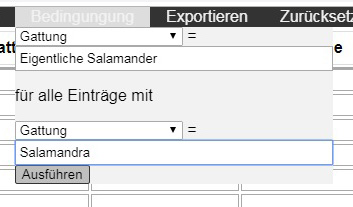
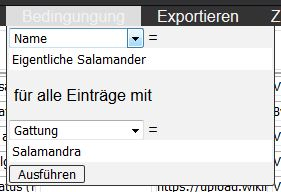
Add files via upload

Changed region(s): [[0.0, 0.0, 1.0, 1.0]]

diff --git a/Help.html b/Help.html
@@ -48,7 +48,6 @@
 						<li class="toclistitem"><a class = "contentslink" href="#HBioQuisJson" title="Was ist in der BioQuis_Liste.json Datei gespeichert?">BioQuis_Liste.json</a></li>
 						<li class="toclistitem"><a class = "contentslink" href="#HSortieren" title="Wie kann ich die Liste anders sortieren?">Liste sortieren</a></li>
 						<li class="toclistitem"><a class = "contentslink" href="#HVeraendern" title="Wie kann ich Einträge in der Liste verändern?">Einträge bearbeiten</a></li>
-						<li class="toclistitem"><a class = "contentslink" href="#HFormatieren" title="Wie kann ich den Text der Bildanzeige formatieren(kursiv, fett, unterstrichen, Zeilenumbruch usw)?">Text formatieren</a></li>
 						<li class="toclistitem"><a class = "contentslink" href="#HID" title="Was ist das ID# Feld?">ID# Feld</a></li>
 						<li class="toclistitem"><a class = "contentslink" href="#HBildadresse" title="Was ist das Grafik-/Bildadresse Feld?">Grafik-/Bildadresse Feld</a></li>
 						<li class="toclistitem"><a class = "contentslink" href="#HName" title="Was ist das Name und Gruppe Feld?">Name und Gruppe Feld</a></li>
@@ -99,16 +98,16 @@
 			<p class="HParagraph">Die Nummer rechts unten in der <a href="index.html" target="_blank">Bildanzeige</a> ist die <a href="#HID">ID#</a> dieses Eintrages in der <a href="Verwalten.html" target="_blank">Liste</a>. Dies sollte das auffinden eines in der Bilderanzeige als fehlerhaft erkannten Eintrages in der Liste erleichtern.</p>
 			
 			<h4 id="HDarwin">Warum wird mir Charles Darwin in der Bildanzeige angezeigt?</h4>
-			<p class="HParagraph">Charles Darwin wird in der <a href="index.html" target="_blank">Bildanzeige</a> angezeigt wenn für einen Eintrag in der <a href="Verwalten.html" target="_blank">Liste</a> keine Grafikadresse/Bildadresse vorhanden ist. Um dieses Problem zu beheben für den entsprechenden Eintrag in der Liste eine Grafikadresse/Bildadresse im <a href="#HBildadresse">Feld Grafik-/Bildadresse</a> angeben oder den <a href="HLoeschen">Eintrag löschen</a>. Die <a href="HID">ID#</a> des zu bearbeitenden Eintrages ist im Bilduntertext und <a href="#HNummer">rechts unten in der Bildanzeige</a> angegeben.</p>
+			<p class="HParagraph">Charles Darwin wird in der <a href="index.html" target="_blank">Bildanzeige</a> angezeigt wenn für einen Eintrag in der <a href="Verwalten.html" target="_blank">Liste</a> keine Grafikadresse/Bildadresse vorhanden ist. Um dieses Problem zu beheben für den entsprechenden Eintrag in der Liste eine Grafikadresse/Bildadresse im <a href="#HBildadresse">Feld Grafik-/Bildadresse</a> angeben oder den <a href="#HLoeschen">Eintrag löschen</a>. Die <a href="#HID">ID#</a> des zu bearbeitenden Eintrages ist im Bilduntertext und <a href="#HNummer">rechts unten in der Bildanzeige</a> angegeben.</p>
 			
 			<h4 id="HLinne">Warum wird mir Carl von Linné in der Bildanzeige angezeigt?</h4>
 			<p class="HParagraph">Carl von Linné wird in der <a href="index.html" target="_blank">Bildanzeige</a> angezeigt wenn für einen Eintrag in der <a href="Verwalten.html" target="_blank">Liste</a> kein Bild geladen werden kann. Dies kann der Fall sein wenn das Bild unter der angegebenen Grafikadresse/Bildadresse nicht mehr existiert, die Grafikadresse/Bildadresse fehlerhaft ist oder die Internetverbindung unterbrochen ist. Um die beiden erstgenannten Probleme zu beheben für den entsprechenden Eintrag in der Liste eine gültige Grafikadresse/Bildadresse im <a href="#HBildadresse">Feld Grafik-/Bildadresse</a> angeben oder den <a href="#HLoeschen">Eintrag löschen</a>. Die <a href="#HID">ID#</a> des zu bearbeitenden Eintrages ist im Bilduntertext und <a href="#HNummer">rechts unten in der Bildanzeige</a> angegeben.</p>
 			
 			<h4 id="HfalschesBild">Wieso wird plötzlich ein anderes Bild für einen Eintrag angezeigt?</h4>
-			<p class="HParagraph">Wenn der Betreiber der Seite der im <a href="#HBildadresse">Feld Grafik-/Bildadresse</a> angegebenen Grafikadresse/Bildadresse ein anderes Bild unter dieser Grafikadresse/Bildadresse speichert wird dieses in der <a href="index.html" target="_blank">Bildanzeige</a> angezeigt. Um dieses Problem zu beheben für den entsprechenden Eintrag in der Liste die neue Grafikadresse/Bildadresse des Bildes im <a href="#HBildadresse">Feld Grafik-/Bildadresse</a> angeben wenn diese bekannt ist/existiert oder den <a href="HLoeschen">Eintrag löschen</a>. Die <a href="HID">ID#</a> des zu bearbeitenden Eintrages ist <a href="#HNummer">rechts unten in der Bildanzeige</a> angegeben.</p>
+			<p class="HParagraph">Wenn der Betreiber der Seite der im <a href="#HBildadresse">Feld Grafik-/Bildadresse</a> angegebenen Grafikadresse/Bildadresse ein anderes Bild unter dieser Grafikadresse/Bildadresse speichert wird dieses in der <a href="index.html" target="_blank">Bildanzeige</a> angezeigt. Um dieses Problem zu beheben für den entsprechenden Eintrag in der Liste die neue Grafikadresse/Bildadresse des Bildes im <a href="#HBildadresse">Feld Grafik-/Bildadresse</a> angeben wenn diese bekannt ist/existiert oder den <a href="#HLoeschen">Eintrag löschen</a>. Die <a href="#HID">ID#</a> des zu bearbeitenden Eintrages ist <a href="#HNummer">rechts unten in der Bildanzeige</a> angegeben.</p>
 			
 			<h4 id="HListe">Wie funktioniert die Liste?</h4>
-			<p class="HParagraph">Jede Zeile der <a href="Verwalten.html" target="_blank">Liste</a> ist ein Eintrag und enspricht einem Bild der <a href="index.html" target="_blank">Bildanzeige</a>. Die Liste kann hier nach belieben individuell verändert werden. Es ist nicht notwendig/möglich eigene Bilder hochzuladen, stattdessen können theoretisch alle im Internet verfügbaren Bilder über die Grafikadresse/Bildadresse verwendet werden. Die Grafikadresse/Bildadresse ist ein Link direkt zum Bild und wird im <a href="#HBildadresse">Feld Grafik-/Bildadresse</a> eingetragen. Die Grafikadresse/Bildadresse eines Bildes erhält man indem man das Bild im Internetbrowser öffnet und mit Rechtsklick -> Grafikadresse kopieren (Firefox)/Bildadresse kopieren (Chrome und Opera) die Grafikadresse/Bildadresse kopiert und in der Liste bei entsprechendem Eintrag im Feld Grafik-/Bildadresse einfügt. Zur ordnungsgemäßen Funktion der Seite muss dieses Feld ausgefüllt werden, da sonst kein Bild für diesen Eintrag in der angezeigt werden kann. Alle anderen Felder sind optional und können leer gelassen werden. Diese werden als weitere Information angezeigt sobald in der Bildanzeige auf das Bild geklickt wird. Es ist allerdings sinnvoll zumindest eins dieser Felder auszufüllen um dem <a href="#HBildanzeige">Prinzip der Bildanzeige</a> folgen zu können.</p>
+			<p class="HParagraph">Jede Zeile der <a href="Verwalten.html" target="_blank">Liste</a> ist ein Eintrag und enspricht einem Bild der <a href="index.html" target="_blank">Bildanzeige</a>. Die Liste kann hier nach belieben individuell verändert werden. Es ist nicht notwendig/möglich eigene Bilder hochzuladen, stattdessen können theoretisch alle im Internet verfügbaren Bilder über die Grafikadresse/Bildadresse verwendet werden. Die Grafikadresse/Bildadresse ist ein Link direkt zum Bild und wird im <a href="#HBildadresse">Feld Grafik-/Bildadresse</a> eingetragen. Die Grafikadresse/Bildadresse eines Bildes erhält man indem man das Bild im Internetbrowser öffnet und mit Rechtsklick &#8674 Grafikadresse kopieren (Firefox)/Bildadresse kopieren (Chrome und Opera) die Grafikadresse/Bildadresse kopiert und in der Liste bei entsprechendem Eintrag im Feld Grafik-/Bildadresse einfügt. Zur ordnungsgemäßen Funktion der Seite muss dieses Feld ausgefüllt werden, da sonst kein Bild für diesen Eintrag in der Bildanzeige angezeigt werden kann. Alle anderen Felder sind optional und können leer gelassen werden. Diese werden als weitere Information angezeigt sobald in der Bildanzeige auf das Bild geklickt wird. Es ist allerdings sinnvoll zumindest eins dieser Felder auszufüllen um dem <a href="#HBildanzeige">Prinzip der Bildanzeige</a> folgen zu können.</p>
 			<p class="HParagraph">Alle Veränderungen betreffen nur das Gerät auf dem die Veränderungen vorgenommen wurden und werden beim verlassen der Seite automatisch gespeichert. ACHTUNG: Wird der lokale Speicher des Internetbrowsers bereinigt oder eine andere Liste geöffnet, so gehen auch alle individuellen Veränderungen verloren. Auch ein Absturz des Internetbrowsers kann zu Datenverlust führen. Um einen derartigen Verlust einer individuelle Liste zu verhindern oder diese anderen Personen zur Verfügung zu stellen oder diese auf einem anderen Gerät zu verwenden, so muss man die <a href="#HExportieren">Liste exportieren</a> und kann die dadurch erstellte <a href="#HJson">.json Datei</a> nun über <a href="#HEigeneListe">"Eigene Liste"</a> oder <a href="#HListenEinen">"Liste hinzufügen"</a> im Menü am oberen Rand der Liste öffnen.</p>
 			
 			<h4 id="HNeueListe">Wie kann ich alle Einträge der Liste löschen?</h4>
@@ -168,55 +167,6 @@
 			
 			<h4 id="HVeraendern">Wie kann ich Einträge in der Liste verändern?</h4>
 			<p class="HParagraph">Um Einträge in der <a href="Verwalten.html" target="_blank">Liste</a> zu verändern in das zu verändernde Feld klicken und die Änderung vornehmen.</p>	
-			
-			<h4 id="HFormatieren">Wie kann ich den Text der Bildanzeige formatieren (kursiv, fett, unterstrichen, Zeilenumbruch usw)?</h4>
-			<p class="HParagraph">Der Text mit weiteren Informationen, welcher angezeigt wird nachdem in der <a href="index.html" target="_blank">Bildanzeige</a> auf das Bild geklickt wurde, kann mit allen üblichen HTML-Tags verändert werden. Dazu sind die entsprechenden Tags in den Feldern der <a href="Verwalten.html" target="_blank">Liste</a> einzutragen. Um zum Beispiel die Klasse "Amphibia (Amphibien)" im Informationstext kursiv anzuzeigen in der Liste stattdessen "<b>&lt;i&gt;</b>Amphibia (Amphibien)<b>&lt;/i&gt;</b>" eintragen. Das Ergebnis im Informationstext sieht dann so "<i>Amphibia (Amphibien)</i>" aus. Die Tags können an beliebiger Stelle im Text eingetragen werden, so ergibt "<b>&lt;i&gt;</b>Amphibia<b>&lt;/i&gt;</b> (Amphibien)" "<i>Amphibia</i> (Amphibien)" oder "Amphi<b>&lt;i&gt;</b>bia (Amp<b>&lt;/i&gt;</b>hibien)" "Amphi<i>bia (Amp</i>hibien)" und so weiter. In der folgenden Tabelle sind einige HTML-Tags zum einfachen formatieren von Text angegeben.</p>
-			<table class="HTable">
-				<thead>
-					<tr>
-						<th>HTML-Tags</th>
-						<th>Erklärung</th>
-					</tr>
-				</thead>
-				<tbody>
-					<tr>
-						<td class="fc">&lt;b&gt;&lt;/b&gt;</td>
-						<td><b>bold</b> bzw fetter Text</td>
-					</tr>
-					<tr>
-						<td class="fc">&lt;i&gt;&lt;/i&gt;</td>
-						<td><i>italic</i> bzw kursiver Text</td>
-					</tr>
-					<tr>
-						<td class="fc">&lt;small&gt;&lt;/small&gt;</td>
-						<td><small>kleinerer</small> Text</td>
-					</tr>
-					<tr>
-						<td class="fc">&lt;mark&gt;&lt;/mark&gt;</td>
-						<td><mark>markierter</mark> Text</td>
-					</tr>
-					<tr>
-						<td class="fc">&lt;del&gt;&lt;/del&gt;</td>
-						<td><del>deleted</del> oder durchgestrichener Text</td>
-					</tr>
-					<tr>
-						<td class="fc">&lt;ins&gt;&lt;/ins&gt;</td>
-						<td><ins>inserted</ins> oder unterstrichener Text</td>
-					</tr>
-					<tr>
-						<td class="fc">&lt;sub&gt;&lt;/sub&gt;</td>
-						<td><sub>subscripted</sub> oder tiefgestellter Text</td>
-					</tr>
-					<tr>
-						<td class="fc">&lt;sup&gt;&lt;/sup&gt;</td>
-						<td><sup>superscripted</sup> oder hochgestellter Text</td>
-					</tr>
-					<tr>
-						<td class="fc">&lt;br&gt;</td>
-						<td>Zeilenumbruch an dieser<br>Stelle des Textes</td>
-					</tr>
-				</tbody>
-			</table>
 						
 			<h4 id="HID">Was ist das ID# Feld?</h4>
 			<p class="HParagraph">Der Wert des ID# Feldes ist eine automatisch generierte, in der <a href="Verwalten.html" target="_blank">Liste</a> einmalige Nummer um Einträge eindeutig idendifizieren zu können. Der Wert dieses Feldes kann nicht verändert werden um die Einmaligkeit der Nummer sicherzustellen.</p>	
@@ -228,7 +178,7 @@
 			<p class="HParagraph">Diese Felder können bei Bedarf ausgefüllt werden. Diesen Spalten in der <a href="Verwalten.html" target="_blank">Liste</a> ermöglichen das Eintragen von Einteilungen welche durch die Felder der <a href="#HSystematik">Biologischen Systematik</a> nicht abgedeckt sind. Es kann hier zum Beispiel der deutschen Namen und eine Gruppe von nur morphologisch ähnlichen Tieren (z.B. die Fische) eingetragen werden</p>
 			
 			<h4 id="HLink">Was ist das Link Feld</h4>
-			<p class="HParagraph">Dieses Feld kann bei Bedarf ausgefüllt werden. Diese Spalte in der <a href="Verwalten.html" target="_blank">Liste</a> ermöglicht die Angabe eines Links zu einer beliebigen Internetseite mit weiteren Informationen, zum Beispiel zum Wikipedia Artikel des Lebewesens. Hier bitte nur eine gültige Webadresse angeben.</p>	
+			<p class="HParagraph">Dieses Feld kann bei Bedarf ausgefüllt werden. Diese Spalte in der <a href="Verwalten.html" target="_blank">Liste</a> ermöglicht die Angabe eines oder mehrerer Links zu einer beliebigen Internetseite mit weiteren Informationen, zum Beispiel zum Wikipedia Artikel des Lebewesens. Hier bitte nur eine gültige Webadresse angeben. Mehrere Links müssen zur korrekten Anzeige durch "[Leerzeichen]&[Leerzeichen]" getrennt werden, zum Beispiel: "https://de.wikipedia.org/wiki/Feuersalamander & https://de.wikipedia.org/wiki/Salamander".</p>	
 			
 			<h4 id="HSystematik">Was ist die Unterart, Art, Gattung, Unterserei, Serie, Untersektion, Sektion, Untergattung, Subtribus, Unterfamilie, Familie, Überfamilie, Teilordung, Unterordnung, Ordnung, Überordnung, Teilklasse, Unterklasse, Klasse, Reihe, Überklasse, Unterstamm, Stamm, Überstamm, Stammgruppe, Abteilung, Unterreich, Reich und Domäne?</h4>
 			<p class="HParagraph">Diese Felder können bei Bedarf ausgefüllt werden. Diesen Spalten in der <a href="Verwalten.html" target="_blank">Liste</a> ermöglichen die Einteilung in die Systematik der Lebewesen. Es ist das in der Biologie gängige Konzept zur Einteilung, Benennung und Identifikation der Lebewesen. <a href="https://de.wikipedia.org/wiki/Systematik_(Biologie)">Mehr zur Systematik auf Wikipedia</a>.</p>	
@@ -237,7 +187,7 @@
 			<p class="HParagraph">Um einen Eintrag aus der <a href="Verwalten.html" target="_blank">Liste</a> zu löschen am Anfang der entsprechenden Zeile links neben dem <a href="#HID">ID# Feld</a> den <button type="button" class="dabuttons Hdabuttons delbutton" title="Zeile löschen Button"></button> Button klicken.</p>	
 			
 			<h4 id="HHinzufuegen">Wie kann ich einen neuen Eintrag zur Liste hinzufügen?</h4>
-			<p class="HParagraph">Um einen Eintrag zur <a href="Verwalten.html" target="_blank">Liste</a> hinzuzufügen am Anfang der Zeile unter welcher eine neue Zeile hinzugefügt werden sollte links neben dem <a href="#HID">ID# Feld</a> den <button type="button" class="dabuttons Hdabuttons addbutton" title="Neue Zeile unter dieser Zeile hinzufügen Button"></button> Button klicken. In die neue Zeile werden automatisch alle Felder mit Ausnahme des ID# Feldes und des <a href="HBildadresse">Grafik-/Bildadresse Feldes</a> von der Zeile darüber kopiert.</p>	
+			<p class="HParagraph">Um einen Eintrag zur <a href="Verwalten.html" target="_blank">Liste</a> hinzuzufügen am Anfang der Zeile unter welcher eine neue Zeile hinzugefügt werden sollte links neben dem <a href="#HID">ID# Feld</a> den <button type="button" class="dabuttons Hdabuttons addbutton" title="Neue Zeile unter dieser Zeile hinzufügen Button"></button> Button klicken. In die neue Zeile werden automatisch alle Felder mit Ausnahme des ID# Feldes und des <a href="#HBildadresse">Grafik-/Bildadresse Feldes</a> von der Zeile darüber kopiert.</p>	
 			
 			<h4 id="HSpeichern">Wie speichere ich meine Veränderungen an der Liste?</h4>
 			<p class="HParagraph">Generell werden alle Veränderungen automatisch gespeichert und sind auch nach dem Neustart des Internetbrowsers und bei einem späteren Aufruf der Seite wieder verfügbar. ACHTUNG: Wird der lokale Speicher des Internetbrowsers bereinigt (z.B. im privaten Modus oder nach manueller Bereinigung) oder eine andere Liste geöffnet, so gehen auch alle individuellen Veränderungen verloren. Auch ein Absturz des Internetbrowsers kann zu Datenverlust führen. Um einen derartigen Verlust einer individuelle Liste zu verhindern oder diese anderen Personen zur Verfügung zu stellen oder diese auf einem anderen Gerät zu verwenden, so muss man die <a href="#HExportieren">Liste exportieren</a> und kann die dadurch erstellte <a href="#HJson">.json Datei</a> nun über <a href="#HEigeneListe">"Eigene Liste"</a> oder <a href="#HListenEinen">"Liste hinzufügen"</a> im Menü am oberen Rand der Liste öffnen.</p>	

diff --git a/Verwalten.html b/Verwalten.html
@@ -118,66 +118,14 @@
 			<div class="popup-content">
 				<span onclick="document.getElementById('firstInfoIndex').style.display='none'" class="close" title="Informationsanzeige schließen">&times;</span>
 				
-				<h2>Willkommen auf BioQuis</h2>
+				<h2>Willkommen in der BioQuis-Liste</h2>
 				
-				<p id="Goethe">Wie schon Goethe niederschrieb: "Man sieht nur, was man weiß". Ganz in diesem Sinne sollte BioQuis helfen die Lebewesen unserer Umwelt kennen zu lernen und dadurch ermöglichen die überweltigende Vielfalt unseres nächsten Umfeldes wahrzunehmen.</p>
-				
-				<p>Die Folgenden und weitere Informationen über diese Website können jederzeit durch klick auf "<a href="help.html">Hilfe</a>" im Menü am oberen Rand der Website abgerufen werden.
-				
-				<h4 id="HListe">Wie funktioniert diese Seite?</h4>
-				<p class="HParagraph">Jede Zeile dieser Liste ist ein Eintrag und enspricht einem Bild der <a href="index.html" target="_blank">Bildanzeige</a>. Die Liste kann hier nach belieben individuell verändert werden. Es ist nicht notwendig/möglich eigene Bilder hochzuladen, stattdessen können theoretisch alle im Internet verfügbaren Bilder über die Grafikadresse/Bildadresse verwendet werden. Die Grafikadresse/Bildadresse ist ein Link direkt zum Bild und wird im <a href="Help.html#HBildadresse">Feld Grafik-/Bildadresse</a> eingetragen. Die Grafikadresse/Bildadresse eines Bildes erhält man indem man das Bild im Internetbrowser öffnet und mit Rechtsklick -> Grafikadresse kopieren (Firefox)/Bildadresse kopieren (Chrome und Opera) die Grafikadresse/Bildadresse kopiert und in der Liste bei entsprechendem Eintrag im Feld Grafik-/Bildadresse einfügt. Zur ordnungsgemäßen Funktion der Seite muss dieses Feld ausgefüllt werden, da sonst kein Bild für diesen Eintrag in der angezeigt werden kann. Alle anderen Felder sind optional und können leer gelassen werden. Diese werden als weitere Information angezeigt sobald in der Bildanzeige auf das Bild geklickt wird. Es ist allerdings sinnvoll zumindest eins dieser Felder auszufüllen um dem <a href="Help.html#HBildanzeige">Prinzip der Bildanzeige</a> folgen zu können.</p>
+				<h4>Wie funktioniert das Bearbeiten der Liste?</h4>
+				<p class="HParagraph">Jede Zeile dieser Liste ist ein Eintrag und enspricht einem Bild der <a href="index.html">Bildanzeige</a>. Die Liste kann hier nach belieben individuell verändert werden. Es ist nicht notwendig/möglich eigene Bilder hochzuladen, stattdessen können theoretisch alle im Internet verfügbaren Bilder über die Grafikadresse/Bildadresse verwendet werden. Die Grafikadresse/Bildadresse ist ein Link direkt zum Bild und wird im <a href="Help.html#HBildadresse">Feld Grafik-/Bildadresse</a> eingetragen. Die Grafikadresse/Bildadresse eines Bildes erhält man indem man das Bild im Internetbrowser öffnet und mit Rechtsklick &#8674 Grafikadresse kopieren (Firefox)/Bildadresse kopieren (Chrome und Opera) die Grafikadresse/Bildadresse kopiert und in der Liste bei entsprechendem Eintrag im Feld Grafik-/Bildadresse einfügt. Zur ordnungsgemäßen Funktion der Seite muss dieses Feld ausgefüllt werden, da sonst kein Bild für diesen Eintrag in der Bildanzeige angezeigt werden kann. Alle anderen Felder sind optional und können leer gelassen werden. Diese werden als weitere Information angezeigt sobald in der Bildanzeige auf das Bild geklickt wird. Es ist allerdings sinnvoll zumindest eins dieser Felder auszufüllen um dem <a href="Help.html#HBildanzeige">Prinzip der Bildanzeige</a> folgen zu können.</p>
 				<p class="HParagraph">Alle Veränderungen betreffen nur das Gerät auf dem die Veränderungen vorgenommen wurden und werden beim verlassen der Seite automatisch gespeichert. ACHTUNG: Wird der lokale Speicher des Internetbrowsers bereinigt, so gehen auch alle individuellen Veränderungen verloren. Auch ein Absturz des Internetbrowsers kann zu Datenverlust führen. Um einen derartigen Verlust einer individuelle Liste zu verhindern oder diese anderen Personen zur Verfügung zu stellen oder diese auf einem anderen Gerät zu verwenden, so muss man die <a href="Help.html#HExportieren">Liste exportieren</a> und kann die dadurch erstellte <a href="Help.html#HJson">.json Datei</a> nun über <a href="Help.html#HEigeneListe">"Eigene Liste"</a> oder <a href="Help.html#HListenEinen">"Liste hinzufügen"</a> im Menü am oberen Rand der Liste öffnen.</p>
 				
-				<h4 id="HNeueListe">Wie kann ich alle Einträge der Liste löschen?</h4>
-				<p class="HParagraph">Um alle Einträge der Liste zu löschen "Neue Liste" im Menü am oberen Rand der <a href="Verwalten.html" target="_blank">Liste</a> klicken. Durch das öffnen einer neuen Liste wird die derzeit geöffnete Liste verworfen, um Datenverlust zu vermeiden sollte die derzeit geöffnete Liste davor <a href="Help.html#HExportieren">exportiert</a> werden.</p>
-				
-				<h4 id="HEigeneListe">Wie kann ich eine eigene Liste verwenden?</h4>
-				<p class="HParagraph">Möchte man eine <a href="Help.html#HExportieren">eigene Liste welche als .json Datei vorliegt</a> verwenden so kann man diese unter "Eigene Liste" &#8674 "Durchsuchen" im Menü am oberen Rand der <a href="index.html" target="_blank">Bildanzeige</a> oder <a href="Verwalten.html" target="_blank">Liste</a> wählen. Bei Listen aus nicht vertrauenswürdigen Quellen sollte die <a href="Help.html#HSicherheitshinweis">Sicherheitshinweise</a> beachtet werden. Durch das öffnen einer neuen Liste wird die derzeit geöffnete Liste verworfen, um Datenverlust zu vermeiden sollte die derzeit geöffnete Liste davor <a href="Help.html#HExportieren">exportiert</a> werden.</p>
-				
-				<h4 id="HZurücksetzen">Wie komme ich zurück zur Standardliste der Website?</h4>
-				<p class="HParagraph">Um wieder die Standardliste der Website zu verwenden im Menü am oberen Rand der <a href="index.html" target="_blank">Bildanzeige</a> oder <a href="Verwalten.html" target="_blank">Liste</a> "Zurücksetzen &times;" wählen. ("Zurücksetzen &times;" wird nicht angezeigt wenn bereits die Standardliste verwendet wird.) Durch das öffnen der Standardliste wird die derzeit geöffnete Liste verworfen, um Datenverlust zu vermeiden sollte die derzeit geöffnete Liste davor <a href="Help.html#HExportieren">exportiert</a> werden.</p>
-
-				<h4 id="HListenEinen">Wie kann ich zwei Listen zu einer zusammenfügen?</h4>
-				<p class="HParagraph">Um zwei Listen zusammenzufügen "Liste hinzufügen" im Menü am oberen Rand der <a href="Verwalten.html" target="_blank">Liste</a> klicken und die <a href="Help.html#HJson">.json Datei</a> der hinzuzufügenden Liste wählen um diese Liste an die bereits geöffnete Liste anzufügen. Für die Einträge der hinzugefügten Liste wird die <a href="Help.html#HID">ID#</a> entsprechend der bereits geöffneten Liste angepasst. Bei Listen aus nicht vertrauenswürdigen Quellen sollte die <a href="Help.html#HSicherheitshinweis">Sicherheitshinweise</a> beachtet werden.</p></p>	
-			
-				<h4 id="HBedingung">Wie kann ich mehrere Einträge auf einmal bearbeiten?</h4>
-				<p class="HParagraph">Um mehrere Einträge auf einmal zu bearbeiten "Bedingung" im Menü am oberen Rand der <a href="Verwalten.html" target="_blank">Liste</a> klicken. Im Dialogfeld in der oberen Ausklappauswahl die zu verändernde Spalte (z.B. "Gattung") wählen und im oberen Eingabefeld direkt darunter den Neuen Wert (z.B. "Eigentliche Salamander") für diese eintragen. In der unteren Ausklapppauswahl und dem unteren Eingabefeld angeben für welche Einträge diese Veränderung vorgenommen werden sollte (z.B. "Gattung" und "Salamandra").</p><img class="HelpImg" src="graphics/Bedingung.jpg" alt="Screenshot einer Bedingung" title='In diesem Beispiel würde für alle Einträge mit Gattungsname "Salamandra" der Gattungsname auf "Eigentliche Salamander" geändert.'> <p class="HParagraph">Abb.: In diesem Beispiel würde für alle Einträge mit Gattungsname "Salamandra" der Gattungsname auf "Eigentliche Salamander" geändert.</p>	
-				
-				<h4 id="HExportieren">Wie kann ich meine individuelle Liste als Datei speichern?</h4>
-				<p class="HParagraph">Um eine individuelle Liste als Datei zu speichern "Exportieren" im Menü am oberen Rand der <a href="Verwalten.html" target="_blank">Liste</a> wählen. Die Datei wird nun als Download <a href="Help.html#HBioQuisJson">"BioQuis_Liste.json"</a> gespeichert.</p>	
-				
-				<h4 id="HSortieren">Wie kann ich die Liste anders sortieren?</h4>
-				<p class="HParagraph">Um die <a href="Verwalten.html" target="_blank">Liste</a> nach einer Spalte aufsteigend numerisch/alphabetisch zu sortieren klicke auf den Namen der Spalte am oberen Rand der Liste.</p>	
-				
-				<h4 id="HVeraendern">Wie kann ich Einträge in der Liste verändern?</h4>
-				<p class="HParagraph">Um Einträge in der <a href="Verwalten.html" target="_blank">Liste</a> zu verändern in das zu verändernde Feld klicken und die Änderung vornehmen.</p>	
-							
-				<h4 id="HID">Was ist das ID# Feld?</h4>
-				<p class="HParagraph">Der Wert des ID# Feldes ist eine automatisch generierte, in der <a href="Verwalten.html" target="_blank">Liste</a> einmalige Nummer um Einträge eindeutig idendifizieren zu können. Der Wert dieses Feldes kann nicht verändert werden um die Einmaligkeit der Nummer sicherzustellen.</p>	
-				
-				<h4 id="HBildadresse">Was ist das Grafik-/Bildadresse Feld?</h4>
-				<p class="HParagraph">Dieses Feld muss die Adresse einer Grafikdatei im Internet beinhalten. Die Grafikadresse/Bildadresse führt zu dem Bild welches in der Bilderanzeige angezeigt wird. Die Grafikadresse/Bildadresse eines Bildes erhält man indem man das Bild im Internetbrowser öffnet und mit Rechtsklick -> Grafikadresse kopieren (Firefox)/Bildadresse kopieren (Chrome und Opera) die Grafikadresse/Bildadresse kopiert und in der <a href="Verwalten.html" target="_blank">Liste</a> bei entsprechendem Eintrag im Feld Grafik-/Bildadresse einfügt.</p>
-
-				<h4 id="HName">Was ist das Name und Gruppe Feld?</h4>
-				<p class="HParagraph">Diese Felder können bei Bedarf ausgefüllt werden. Diesen Spalten in der <a href="Verwalten.html" target="_blank">Liste</a> ermöglichen das Eintragen von Einteilungen welche durch die Felder der <a href="Help.html#HSystematik">Biologischen Systematik</a> nicht abgedeckt sind. Es kann hier zum Beispiel der deutschen Namen und eine Gruppe von nur morphologisch ähnlichen Tieren (z.B. die Fische) eingetragen werden</p>
-				
-				<h4 id="HLink">Was ist das Link Feld</h4>
-				<p class="HParagraph">Dieses Feld kann bei Bedarf ausgefüllt werden. Diese Spalte in der <a href="Verwalten.html" target="_blank">Liste</a> ermöglicht die Angabe eines Links zu einer beliebigen Internetseite mit weiteren Informationen, zum Beispiel zum Wikipedia Artikel des Lebewesens. Hier bitte nur eine gültige Webadresse angeben.</p>	
-				
-				<h4 id="HSystematik">Was ist die Unterart, Art, Gattung, Unterserie, Serie, Untersektion, Sektion, Untergattung, Subtribus, Unterfamilie, Familie, Überfamilie, Teilordung, Unterordnung, Ordnung, Überordnung, Teilklasse, Unterklasse, Klasse, Reihe, Überklasse, Unterstamm, Stamm, Überstamm, Stammgruppe, Abteilung, Unterreich, Reich und Domäne?</h4>
-				<p class="HParagraph">Diese Felder können bei Bedarf ausgefüllt werden. Diesen Spalten in der <a href="Verwalten.html" target="_blank">Liste</a> ermöglichen die Einteilung in die Systematik der Lebewesen. Es ist das in der Biologie gängige Konzept zur Einteilung, Benennung und Identifikation der Lebewesen. <a href="https://de.wikipedia.org/wiki/Systematik_(Biologie)">Mehr zur Systematik auf Wikipedia</a>.</p>	
-				
-				<h4 id="HLoeschen">Wie kann ich einen Eintrag aus der Liste löschen?</h4>
-				<p class="HParagraph">Um einen Eintrag aus der <a href="Verwalten.html" target="_blank">Liste</a> zu löschen am Anfang der entsprechenden Zeile links neben dem <a href="Help.html#HID">ID# Feld</a> den <button type="button" class="dabuttons Hdabuttons delbutton" title="Zeile löschen Button"></button> Button klicken.</p>	
-				
-				<h4 id="HHinzufuegen">Wie kann ich einen neuen Eintrag zur Liste hinzufügen?</h4>
-				<p class="HParagraph">Um einen Eintrag zur <a href="Verwalten.html" target="_blank">Liste</a> hinzuzufügen am Anfang der Zeile unter welcher eine neue Zeile hinzugefügt werden sollte links neben dem <a href="Help.html#HID">ID# Feld</a> den <button type="button" class="dabuttons Hdabuttons addbutton" title="Neue Zeile unter dieser Zeile hinzufügen Button"></button> Button klicken. In die neue Zeile werden automatisch alle Felder mit Ausnahme des ID# Feldes und des <a href="HBildadresse">Grafik-/Bildadresse Feldes</a> von der Zeile darüber kopiert.</p>	
-				
-				<h4 id="HSpeichern">Wie speichere ich meine Veränderungen an der Liste?</h4>
-				<p class="HParagraph">Generell werden alle Veränderungen automatisch gespeichert und sind auch nach dem Neustart des Internetbrowsers und bei einem späteren Aufruf der Seite wieder verfügbar. ACHTUNG: Wird der lokale Speicher des Internetbrowsers bereinigt (z.B. im privaten Modus oder nach manueller Bereinigung), so gehen auch alle individuellen Veränderungen verloren. Auch ein Absturz des Internetbrowsers kann zu Datenverlust führen. Um einen derartigen Verlust einer individuelle Liste zu verhindern oder diese anderen Personen zur Verfügung zu stellen oder diese auf einem anderen Gerät zu verwenden, so muss man die <a href="Help.html#HExportieren">Liste exportieren</a> und kann die dadurch erstellte <a href="Help.html#HJson">.json Datei</a> nun über <a href="Help.html#HEigeneListe">"Eigene Liste"</a> oder <a href="Help.html#HListenEinen">"Liste hinzufügen"</a> im Menü am oberen Rand der Liste öffnen.</p>	
-				
-				<h4 id="HZurBildanzeige">Wie komme ich zur Bildanzeige?</h4>
-				<p class="HParagraph">Um zur Bildanzeige zu wechseln "Bildanzeige" im Menü am oberen Rand der <a href="Verwalten.html" target="_blank">Liste</a> oder <a href="Help.html" target="_blank">Hilfe</a> klicken.</p>		
+				<h4>Du benötigst weitere Hilfe?</h4>
+				<p>Diese Information, weitere Hilfestellungen zum verändern der Liste und weitere Informationen über diese Website können jederzeit durch Klick auf "<a href="Help.html#HListe">Hilfe</a>" im Menü am oberen Rand der Website abgerufen werden.</p>	
 				
 				<div class="rof">
 					<p>Diese Information beim nächsten Besuch der Seite</p>

diff --git a/index.html b/index.html
@@ -43,7 +43,7 @@
 	
 	<div class="main">
 			<img id="bild" alt="Bild nicht gefunden" title="Klicken um die richtige Antwort anzuzeigen">
-			<img id="loadsymbol" alt="Nächstes Bild ladet..." src="graphics/loader.gif">
+			<img id="loadsymbol" alt="Nächstes Bild lädt..." src="graphics/loader.gif">
 			<div id="bildinfo"></div>	
 		<div id="number" title="ID# des Eintrages in der Liste"></div>
 		<div id="erfolg">
@@ -70,37 +70,13 @@
 				
 				<h2>Willkommen auf BioQuis</h2>
 				
-				<p id="Goethe">Wie schon Goethe niederschrieb: "Man sieht nur, was man weiß". Ganz in diesem Sinne sollte BioQuis helfen die Lebewesen unserer Umwelt kennen zu lernen und dadurch ermöglichen die überweltigende Vielfalt unseres nächsten Umfeldes wahrzunehmen.</p>
+				<p id="Goethe">Wie schon Goethe niederschrieb: "Man sieht nur, was man weiß". Ganz in diesem Sinne sollte BioQuis helfen die Lebewesen unserer Umwelt kennen zu lernen und dadurch ermöglichen die überwältigende Vielfalt unseres nächsten Umfeldes wahrzunehmen.</p>
 				
-				<p>Die Folgenden und weitere Informationen über diese Website können jederzeit durch klick auf "<a href="help.html">Hilfe</a>" im Menü am oberen Rand der Website abgerufen werden.
+				<h4>Wie funktioniert diese Seite? (Bildanzeige)</h4>
+				<p class="HParagraph">Hier in der Bildanzeige wird ein zufällig ausgewähltes Bild eines Lebewesens aus einer vorgefertigten <a href="Verwalten.html">Liste</a> angezeigt, bei Klick auf das Bild wird der Name und weitere Informationen über das abgebildete Lebewesen angezeigt. Klickt man <button type="button" title="Wusste ich Button">Wusste ich &#10003;</button> am unteren Ende der Informationsanzeige, so wird das Bild in dieser Runde kein weiteres mal wiederholt und das nächste zufällig ausgewählte Bild aus den in dieser Runde verbleibenden Bildern aus der Liste angezeigt. Es empfiehlt sich diesen Button zu wählen wenn man das Lebewesen am Bild richtig erkannt hat. Wählt man <button type="button" title="Nicht gewusst Button">Nicht gewusst &#10007;</button> so wird das Bild in dieser Runde erneut angezeigt werden.</p>
 				
-				<h4 id="HBildanzeige">Wie funktioniert diese Seite?</h4>
-				<p class="HParagraph">Hier in der Bildanzeige wird ein zufälliges Bild eines Lebewesens aus einer vorgefertigten <a href="Verwalten.html" target="_blank">Liste</a> angezeigt, bei Klick auf das Bild wird der Name und weitere Informationen über das abgebildete Lebewesen angezeigt. Klickt man <button type="button" title="Wusste ich Button">Wusste ich &#10003;</button> am unteren Ende der Informationsanzeige, so wird das Bild in dieser Runde kein weiteres mal wiederholt und das nächste zufällige Bild aus den in dieser Runde verbleibenden Bildern aus der Liste angezeigt. Es empfiehlt sich diesen Button zu wählen wenn man das Lebewesen am Bild richtig erkannt hat. Wählt man <button type="button" title="Nicht gewusst Button">Nicht gewusst &#10007;</button> so wird das Bild in dieser Runde erneut angezeigt werden.</p>
-
-				<h4 id="HListeBearbeiten">Wie kann ich die Liste einsehen/bearbeiten?</h4>
-				<p class="HParagraph">Um die <a href="Verwalten.html" target="_blank">Liste</a> aus welcher die Bilder und Informationen der <a href="index.html" target="_blank">Bildanzeige</a> gewählt werden anzuzeigen und zu bearbeiten im Menü am oberen Rand der Bildanzeige oder Hilfe "Liste bearbeiten" klicken.</p>
-				
-				<h4 id="HEigeneListe">Wie kann ich eine eigene Liste verwenden?</h4>
-				<p class="HParagraph">Möchte man eine <a href="Help.html#HExportieren">eigene Liste welche als .json Datei vorliegt</a> verwenden so kann man diese unter "Eigene Liste" &#8674 "Durchsuchen" im Menü am oberen Rand der <a href="index.html" target="_blank">Bildanzeige</a> oder <a href="Verwalten.html" target="_blank">Liste</a> wählen. Bei Listen aus nicht vertrauenswürdigen Quellen sollte die <a href="#HSicherheitshinweis">Sicherheitshinweise</a> beachtet werden. Durch das öffnen einer neuen Liste wird die derzeit geöffnete Liste verworfen, um Datenverlust zu vermeiden sollte die derzeit geöffnete Liste davor <a href="Help.html#HExportieren">exportiert</a> werden.</p>
-				
-				<h4 id="HZurücksetzen">Wie komme ich zurück zur Standardliste der Website?</h4>
-				<p class="HParagraph">Um wieder die Standardliste der Website zu verwenden im Menü am oberen Rand der <a href="index.html" target="_blank">Bildanzeige</a> oder <a href="Verwalten.html" target="_blank">Liste</a> "Zurücksetzen &times;" wählen. ("Zurücksetzen &times;" wird nicht angezeigt wenn bereits die Standardliste verwendet wird.) Durch das öffnen der Standardliste wird die derzeit geöffnete Liste verworfen, um Datenverlust zu vermeiden sollte die derzeit geöffnete Liste davor <a href="Help.html#HExportieren">exportiert</a> werden.</p>
-				
-				<h4 id="HFilter">Wie kann ich in der Bildanzeige nur eine spezielle Gruppe von Lebewesen anzeigen lassen?</h4>
-				<p class="HParagraph">Im Menü am oberen Rand der <a href="index.html" target="_blank">Bildanzeige</a> "Filter" wählen. Nun den Namen der gewünschten Gruppe eingeben und den entsprechenden Eintrag durch Klick aus den Vorschlägen wählen. Es werden nun nur noch Bilder angezeigt die der gewählten Gruppe angehören. Es ist möglich nach <a href="Help.html#HID">ID#</a>, <a href="Help.html#HName">Name</a>, <a href="Help.html#HName">Gruppe</a> und  den <a href="Help.html#HSystematik">Taxa der Systematik der Biologie</a> zu Filtern.</p>
-				
-				<h4 id="HFilterEntfernen">Wie kann ich einen Filter entfernen?</h4>
-				<p class="HParagraph">Im Menü am oberen Rand der <a href="index.html" target="_blank">Bildanzeige</a> "Filter" wählen. Durch Klick auf den angewandten Filter im Dialogfeld kann dieser entfernt werden.</p>
-				
-				<h4 id="HProzent">Was ist die Prozentanzeige links unten in der Bildanzeige?</h4>
-				<p class="HParagraph">Die Prozentanzeige links unten in der <a href="index.html" target="_blank">Bildanzeige</a> drückt das Verhältnis zwischen gewussten und nicht gewussten Einträgen in Prozent gewusster Einträge aus. Zum zurücksetzen dieses Zählers auf die Prozentzahl klicken.</p>
-
-				<h4 id="HNummer">Was ist die Nummer rechts unten in der Bildanzeige?</h4>
-				<p class="HParagraph">Die Nummer rechts unten in der <a href="index.html" target="_blank">Bildanzeige</a> ist die <a href="Help.html#HID">ID#</a> dieses Eintrages in der <a href="Verwalten.html" target="_blank">Liste</a>. Dies sollte das auffinden eines in der Bilderanzeige als fehlerhaft erkannten Eintrages in der Liste erleichtern.</p>
-				
-				<h4 id="HLinne">Warum wird mir Carl von Linné in der Bildanzeige angezeigt?</h4>
-				<p class="HParagraph">Carl von Linné wird in der <a href="index.html" target="_blank">Bildanzeige</a> angezeigt wenn für einen Eintrag in der <a href="Verwalten.html" target="_blank">Liste</a> kein Bild geladen werden kann. Dies kann der Fall sein wenn das Bild unter der angegebenen Grafikadresse/Bildadresse nicht mehr existiert, die Grafikadresse/Bildadresse fehlerhaft ist oder die Internetverbindung unterbrochen ist. Um die beiden erstgenannten Probleme zu beheben für den entsprechenden Eintrag in der Liste eine gültige Grafikadresse/Bildadresse im <a href="Help.html#HBildadresse">Feld Grafik-/Bildadresse</a> angeben oder den <a href="Help.html#HLoeschen">Eintrag löschen</a>. Die <a href="Help.html#HID">ID#</a> des zu bearbeitenden Eintrages ist im Bilduntertext und <a href="Help.html#HNummer">rechts unten in der Bildanzeige</a> angegeben.</p>
-				
+				<h4>Du benötigst weitere Hilfe?</h4>
+				<p>Diese Information, weitere Hilfestellungen zur Bildanzeige und weitere Informationen über diese Website können jederzeit durch Klick auf "<a href="Help.html">Hilfe</a>" im Menü am oberen Rand der Website abgerufen werden.</p>
 				
 				<div class="rof">
 					<p>Diese Information beim nächsten Besuch der Seite</p>

diff --git a/javascript.js b/javascript.js
@@ -44,7 +44,7 @@ var dummyTier = new Tier();
 var timeout = 500;
 var dataversion = '1.3'; //Daten-Format Version
 var defaultId1 = "0.8554224974327433"; //Werte der Default-Liste
-var defaultId2 = "0.5857847995500236"; //Werte der Default-Liste
+var defaultId2 = "0.12241533313095321"; //Werte der Default-Liste
 }
 
 if(localStorage.TiereMeta && localStorage.Tiere && localStorage.delTiere){ //Daten einlesen von localStorage...
@@ -198,9 +198,6 @@ function quiz(){ //Code für die Quiz-Seite
 	
 	if(firstvisit.index){
 		document.getElementById("firstInfoIndex").style.display = "block";
-		if(!firstvisit.verwalten){
-			document.getElementById("Goethe").style.display = "none";
-		}
 	}
 	
 	var randnum;
@@ -336,12 +333,20 @@ function quiz(){ //Code für die Quiz-Seite
 						cell1.innerHTML = "Weitere Informationen:"
 						break;
 					case "Link":
-						var link = document.createElement("a");
-						link.innerHTML = randel[el];
-						link.href = randel[el];
-						link.target ="_blank"
+						var splited = randel[el].split(" & ");
 						cell2.innerHTML = "";
-						cell2.appendChild(link);
+						for (var elem of splited){
+							elem = elem.trim();
+							var link = document.createElement("a");
+							link.innerHTML = elem;
+							link.href = elem;
+							link.target ="_blank"
+							cell2.appendChild(link);
+							var span = document.createElement("SPAN");
+							span.innerHTML = " & ";
+							cell2.appendChild(span);
+						}
+						cell2.removeChild(cell2.lastChild);
 				}
 			}
 		}
@@ -482,9 +487,6 @@ function DataInput(){ // Code für die Verwalten-Seite
 
 	if(firstvisit.verwalten){
 		document.getElementById("firstInfoIndex").style.display = "block";
-		if(!firstvisit.index){
-			document.getElementById("Goethe").style.display = "none";
-		}
 	}
 
 	var tbl = document.getElementById("tiere");
@@ -651,8 +653,10 @@ function DataInput(){ // Code für die Verwalten-Seite
 				var input = document.createElement("input");
 				input.type = "text";
 				input.name = "ip";
-				input.value = newrow.previousSibling.cells[i].firstChild.value;
 				input.className = newrow.previousSibling.cells[i].firstChild.classList[0];
+				if(input.className != "BildLink"){
+					input.value = newrow.previousSibling.cells[i].firstChild.value;
+				}
 				input.title = newrow.previousSibling.cells[i].firstChild.title;
 				cell.className = input.className;
 				input.style.color = "#808080";
@@ -871,6 +875,7 @@ function DataInput(){ // Code für die Verwalten-Seite
 		for(i=1; i<tbl.rows.length; i++){
 			if(queryselector2 == "Alle" || tbl.rows[i].querySelector("."+queryselector2).firstChild.value == document.getElementById("queryvalue2").value){
 				var input = tbl.rows[i].querySelector("."+queryselector1).firstChild;
+				input.style.color = "#B22222";
 				input.value = document.getElementById("queryvalue1").value;
 				change(input);
 			}

diff --git a/stylesheet.css b/stylesheet.css
@@ -46,8 +46,8 @@ body {
 	color: black;
 }
 
-.navbar a:hover{
-	cursor: context-menu;
+.navbar *:hover{
+	cursor:context-menu;
 }
 
 #filteranswers{
@@ -73,9 +73,6 @@ body {
 	background-color: white;
 }
 
-.navbar .dropbtn:hover, .navbar .newlist:hover {
-	cursor: context-menu;
-}
 
 li.dropdown {
     display: inline-block;
@@ -533,7 +530,7 @@ button:hover {
 .Hdabuttons{
 	display: inline-block;
 	position: relative;
-	bottom: 0.5em;
+	bottom: 0.2em;
 }
 
 .boldspan{
@@ -628,9 +625,13 @@ button:hover {
 	}
 
 	.popup-content{
-		width: 90%;
+		margin: 5vh 3vw 20vh 3vw;
+		width: 90vw; 
 	}
 	
+	#Help{
+		border-left: 0;
+	}
 }	
 @media screen and (max-width: 650px) {	
 	
@@ -728,10 +729,15 @@ button:hover {
 		width: 95%; /* Could be more or less, depending on screen size */
 	}
   
+  .navbar.responsive *{
+	border: 0px;
+  }
+  
   .navbar.responsive li {
     float: none;
     display: block;
     text-align: left;
+	border: 0px;
   }
   
   .navbar.responsive a {
